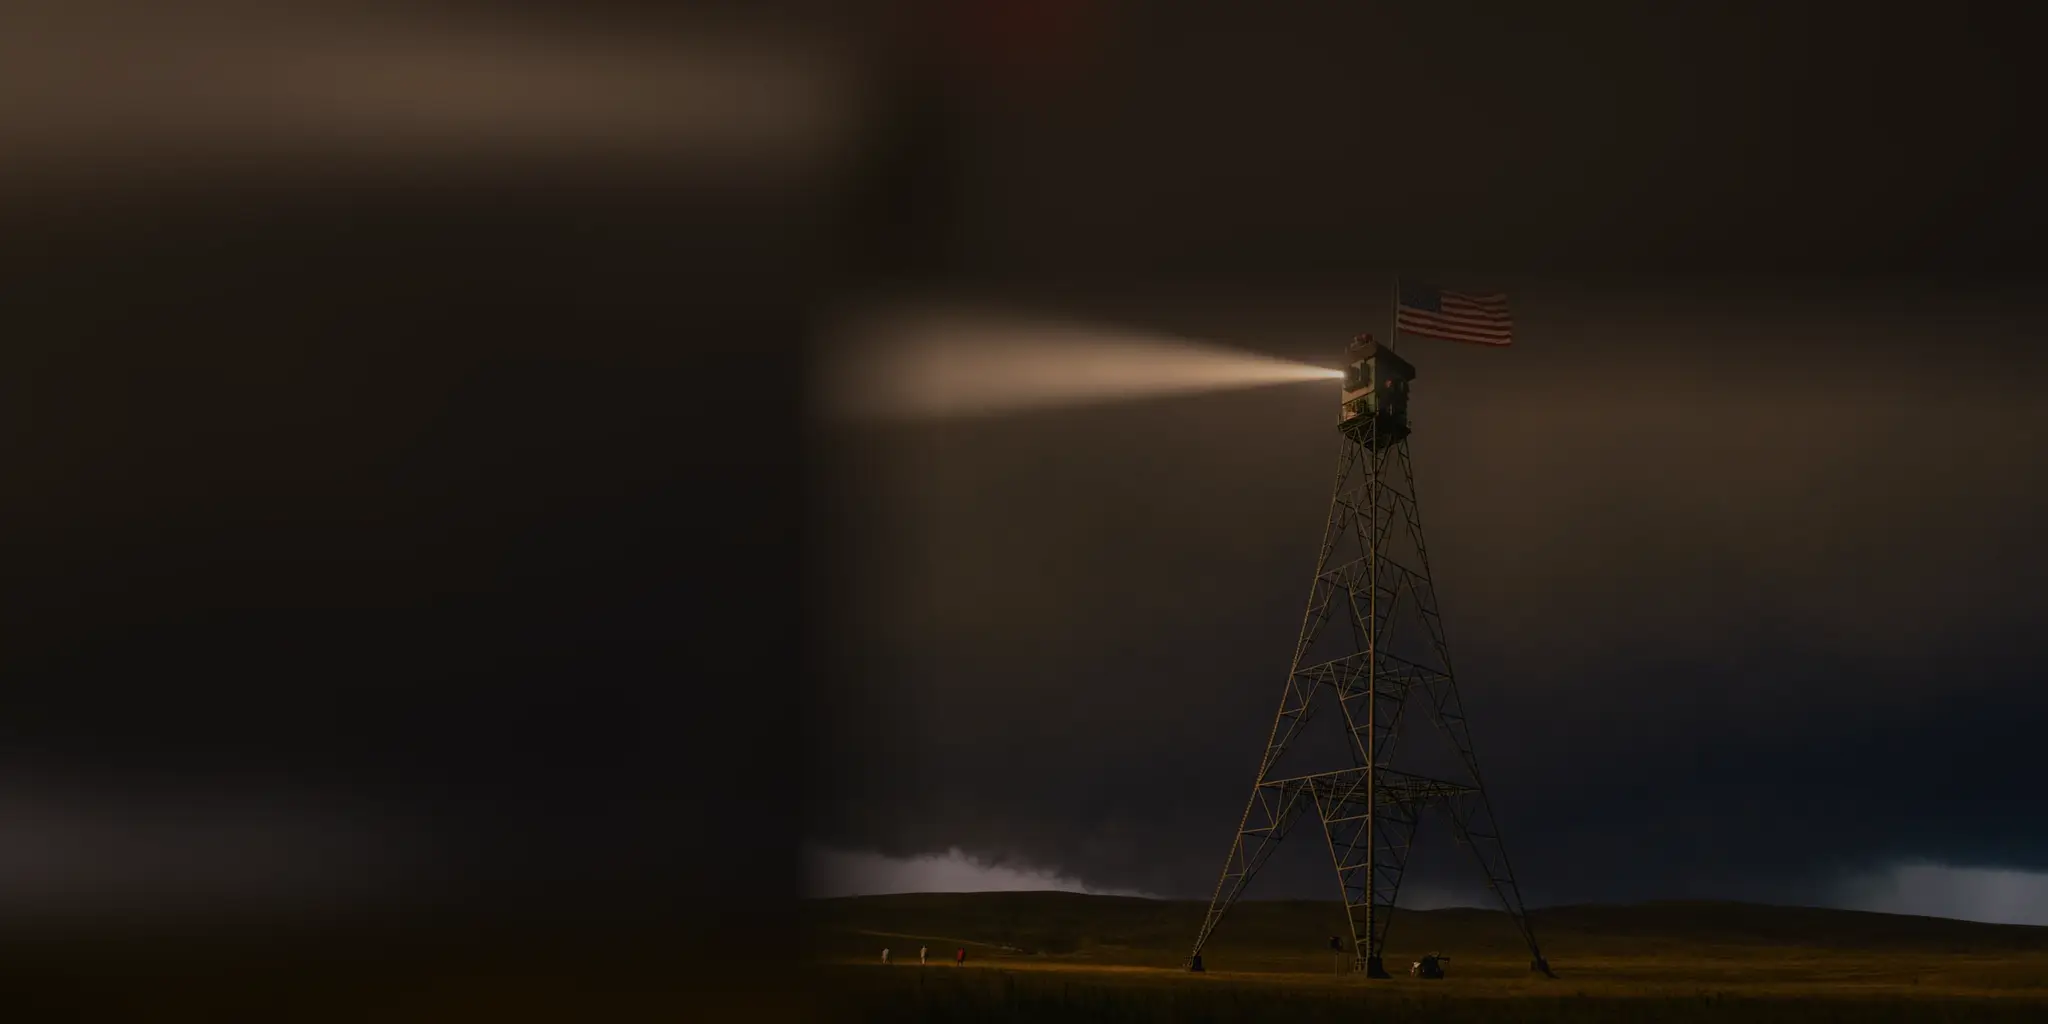
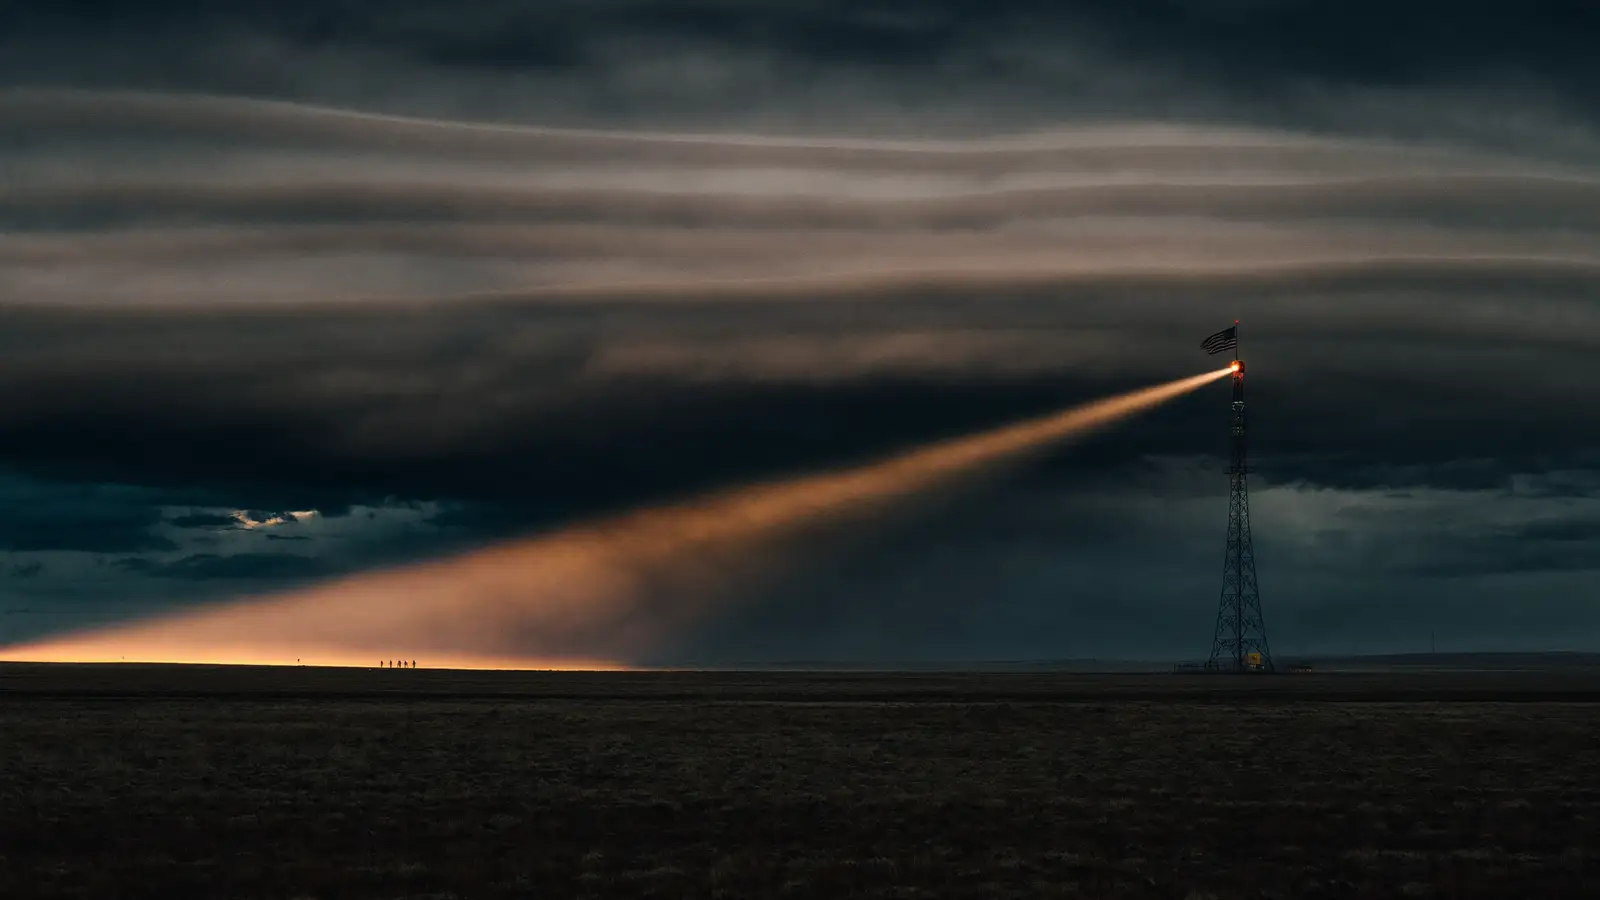
Hero beacon v3: distant tower on open land, sculpted storm, flag left, stripes restored
Claude-Session: https://claude.ai/code/session_01DkDJiACgVANC5AheC2b6Ci

diff --git a/ppn-static/home.css b/ppn-static/home.css
@@ -448,7 +448,7 @@
     linear-gradient(90deg, rgba(12, 12, 14, 0.85) 0%, rgba(12, 12, 14, 0.5) 38%, rgba(12, 12, 14, 0) 58%),
     linear-gradient(180deg, rgba(12, 12, 14, 0.35) 0%, transparent 18%, transparent 86%, rgba(12, 12, 14, 0.9) 100%);
 }
-.hero-flag-bg { display: none; }
+.hero-flag-bg { z-index: 2; opacity: 0.05; }
 
 /* spacious cinematic hero — full scene visible */
 .hero--home { min-height: 92svh; display: flex; align-items: center; }
